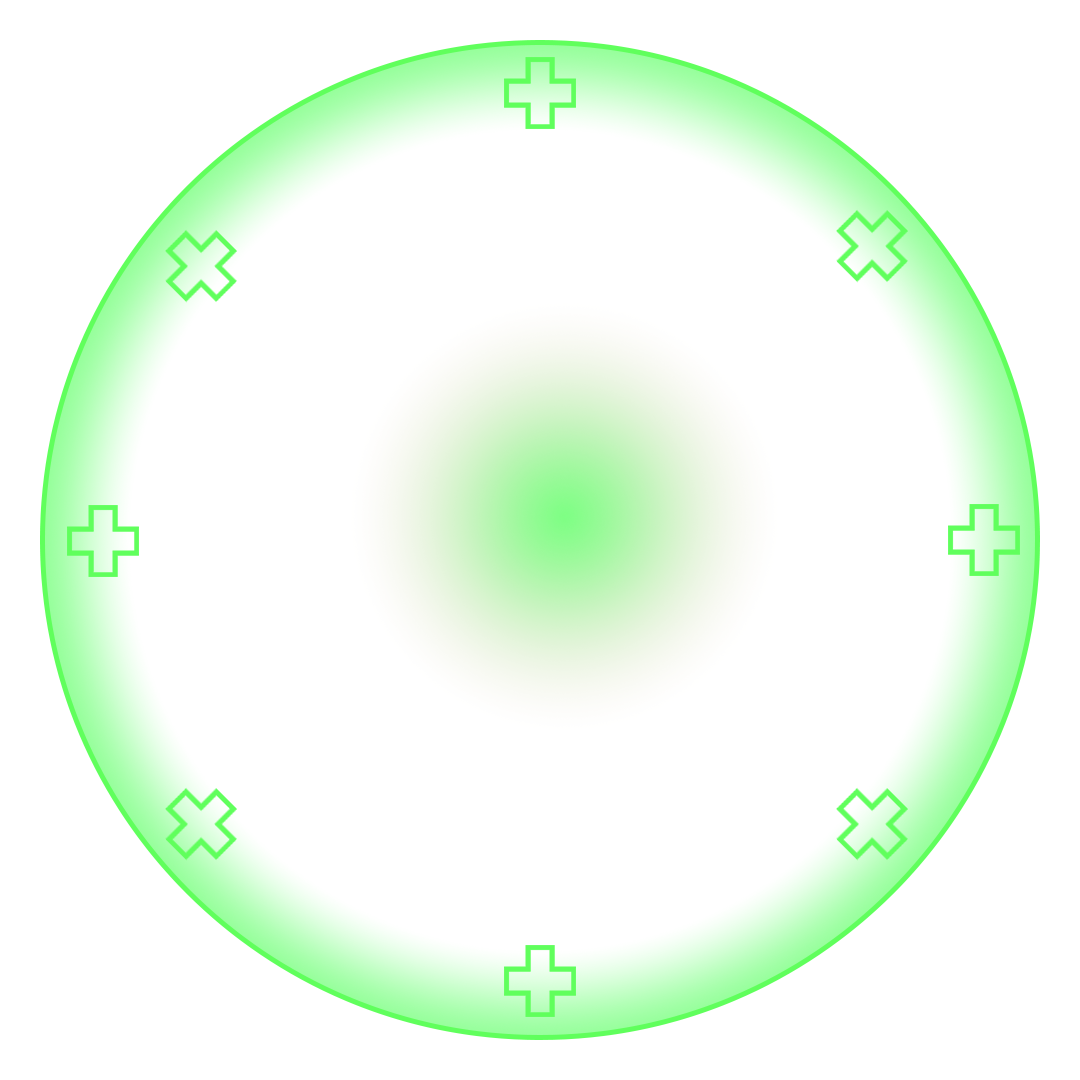
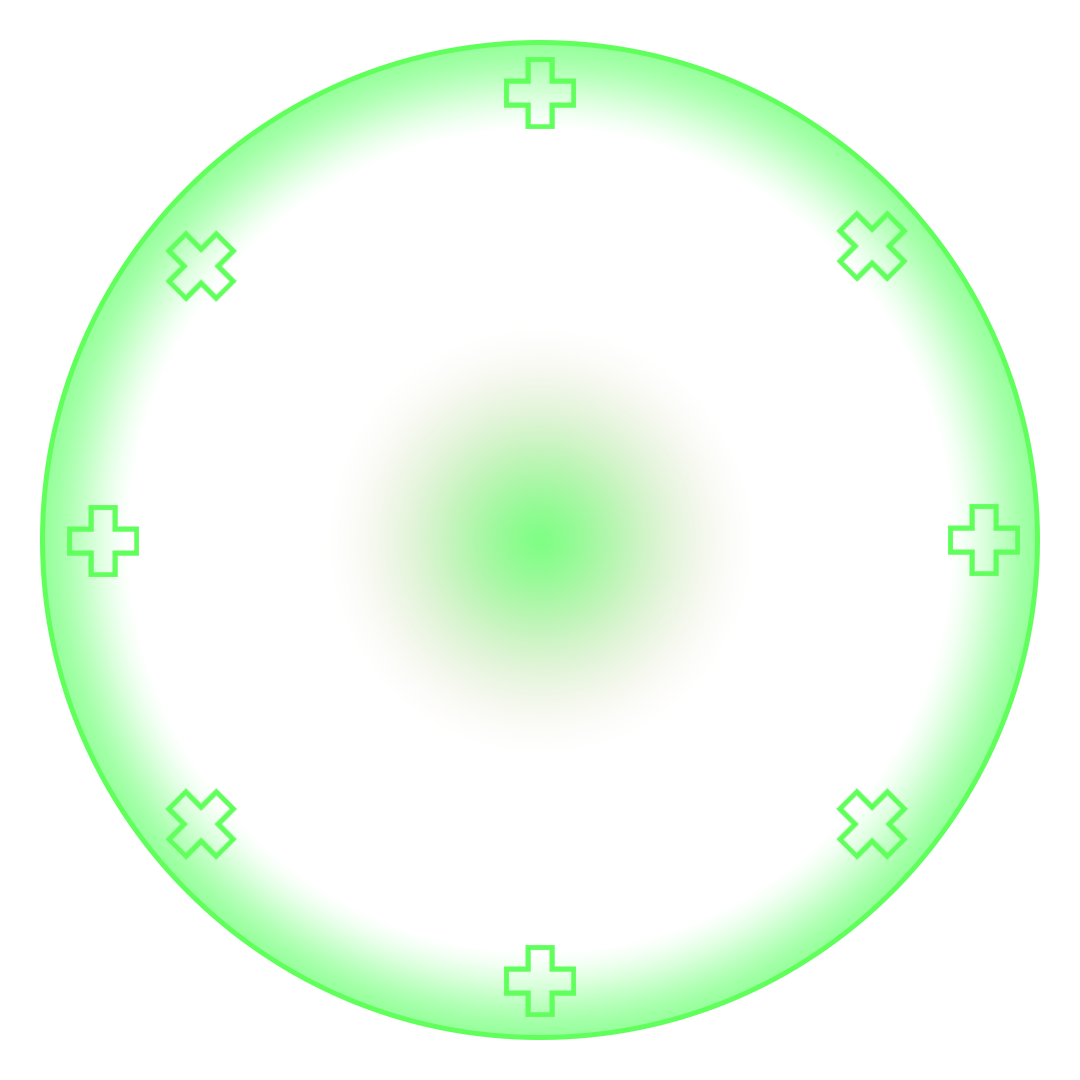
Fixed grenade radio

Changed region(s): [[0.3972, 0.4889, 0.5194, 0.5806], [0.5194, 0.3972, 0.6111, 0.4889]]

diff --git a/Assets/Sripts/Enemies/BombSpiderBotBehaviour.cs b/Assets/Sripts/Enemies/BombSpiderBotBehaviour.cs
@@ -95,7 +95,7 @@ public class BombSpiderBotBehaviour : MonoBehaviour
 
     private void Explode()
     {
-        Collider[] hitColliders = Physics.OverlapSphere(explosionColl.transform.position, explosionColl.GetComponent<SphereCollider>().radius * explosionColl.transform.localScale.x * transform.localScale.x, m_LayerMask, QueryTriggerInteraction.Ignore);
+        Collider[] hitColliders = Physics.OverlapSphere(explosionColl.transform.position, GetComponent<SphereCollider>().radius * explosionColl.transform.localScale.x * transform.localScale.x, m_LayerMask, QueryTriggerInteraction.Ignore);
         foreach(var hc in hitColliders)
         {
             if(hc.tag == "Enemy")

diff --git a/Assets/Sripts/Enemies/Grenade.cs b/Assets/Sripts/Enemies/Grenade.cs
@@ -73,7 +73,7 @@ public class Grenade : MonoBehaviour
     private void Explode()
     {
 
-        Collider[] hitColliders = Physics.OverlapSphere(explosionRange.transform.position, explosionRange.GetComponent<SphereCollider>().radius * explosionRange.transform.localScale.x * transform.localScale.x, layerMask, QueryTriggerInteraction.Ignore); ;
+        Collider[] hitColliders = Physics.OverlapSphere(transform.position, GetComponent<SphereCollider>().radius  * transform.localScale.x, layerMask, QueryTriggerInteraction.Ignore); ;
         foreach (var hc in hitColliders)
         {
 
